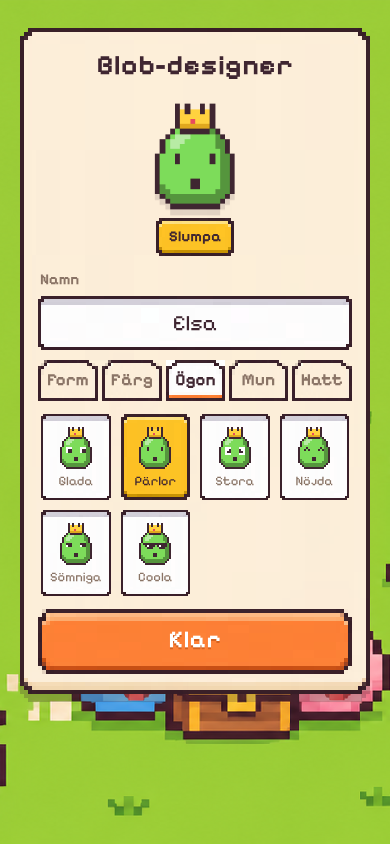
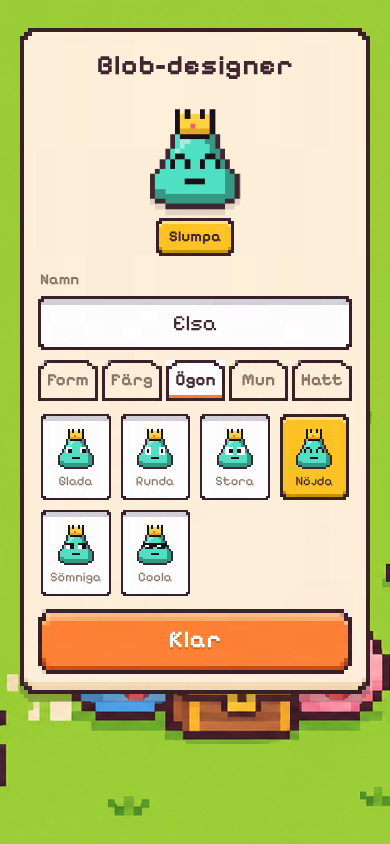
fix(blobz): high-contrast blob faces, slightly bigger blobz in game
Claude-Session: https://claude.ai/code/session_019PjhQycgBwz4yCtCSZuQS4

diff --git a/blobz/src/blob.ts b/blobz/src/blob.ts
@@ -5,10 +5,10 @@ export interface BlobLook { color: number; shape: number; eyes: number; mouth: n
 
 export const COLORS = [
   0x5ec8ff, 0xff6b8b, 0x7ddc5a, 0xffc93c, 0xb18cff, 0xff9248,
-  0x4fe0c3, 0xf2f2f2, 0xe63946, 0x3d6bff, 0x8a5a3c, 0x555a66,
+  0x4fe0c3, 0xf2f2f2, 0xe63946, 0x3d6bff, 0xc08850, 0x9aa0b4,
 ];
 export const SHAPES = ['Kupol', 'Boll', 'Lång', 'Platt', 'Päron', 'Kub'];
-export const EYES = ['Glada', 'Pärlor', 'Stora', 'Nöjda', 'Sömniga', 'Coola'];
+export const EYES = ['Glada', 'Runda', 'Stora', 'Nöjda', 'Sömniga', 'Coola'];
 export const MOUTHS = ['Öppen', 'Leende', 'Tunga', 'Tänder', 'Oj', 'Lugn'];
 export const HATS = ['Ingen', 'Krona', 'Keps', 'Blomma', 'Partyhatt', 'Mössa', 'Rosett', 'Halmhatt'];
 
@@ -19,7 +19,7 @@ export const BODY_CY = 15.5 / GRID_H;
 
 const OUT = '#3f2631';
 const PAL: Record<string, string> = {
-  K: OUT, W: '#ffffff', R: '#e84a5f', Y: '#ffd23f', y: '#e0a81e', C: '#e63946', c: '#a4161a',
+  K: '#1b1018', W: '#ffffff', R: '#ff5a6e', Y: '#ffd23f', y: '#e0a81e', C: '#e63946', c: '#a4161a',
   G: '#5aa83a', P: '#b18cff', p: '#7d5fd6', B: '#3d6bff', b: '#2a4bb8', S: '#e9c46a', s: '#c99a3e', N: '#ff8fab',
 };
 
@@ -27,20 +27,20 @@ const PAL: Record<string, string> = {
 // A pattern with `wide` spans both eyes (x=3..14).
 const EYE_PIX: { rows: string[]; wide?: boolean; mirror?: boolean }[] = [
   { rows: ['WWW', 'WKK', 'WKK'] }, // happy (like the art)
-  { rows: ['.K.', '.K.'] }, // beady
-  { rows: ['WWW', 'WWK', 'WKK', 'WWW'], mirror: true }, // big
-  { rows: ['.K.', 'K.K'] }, // content ^^
-  { rows: ['KKK', 'WKK'] }, // sleepy
-  { rows: ['KKKKKKKKKKKK', '.KWKKK.KWKKK', '..KKK...KKK.'], wide: true }, // cool shades
+  { rows: ['WWW', 'WKW', 'WKW', 'WWW'] }, // round, centred pupil
+  { rows: ['WWWW', 'WWKK', 'WWKK', 'WWWW'], mirror: true }, // big
+  { rows: ['.KK.', 'K..K', 'K..K'] }, // content ^^ (thick arcs)
+  { rows: ['KKKK', 'WWKK', 'WWKK'] }, // sleepy
+  { rows: ['KKKKKKKKKKKK', 'KWWKKKKWWKKK', '.KKKK..KKKK.'], wide: true }, // cool shades
 ];
-// Mouth patterns, centered (even widths), top row y=17.
+// Mouth patterns, centered (even widths), top row y=17. Near-black outline + red/white inside.
 const MOUTH_PIX: string[][] = [
   ['KKKK', 'KRRK', '.KK.'], // open
-  ['K..K', '.KK.'], // smile
-  ['KKKK', '.RR.', '.RR.'], // tongue
+  ['K....K', '.KKKK.'], // smile
+  ['KKKK', 'KRRK', '.RR.'], // tongue
   ['KKKK', 'KWWK', '.KK.'], // teeth
-  ['KK', 'KK'], // oh
-  ['KKKK'], // calm
+  ['.KK.', 'KRRK', '.KK.'], // oh
+  ['.KKKK.'], // calm
 ];
 // Hats: x offset, bottom row lands on the top of the head (y=9).
 const HAT_PIX: { x: number; rows: string[] }[] = [

diff --git a/blobz/src/game.ts b/blobz/src/game.ts
@@ -19,7 +19,7 @@ export interface Session {
 const T = 32; // rendered tile size (16px tiles at 2x)
 const ITEM_FRAME: Record<ItemKind, number> = { wood: 106, shroom: 29, coin: 93 };
 const TREE_FRAMES = [16, 28, 27];
-const BLOB_SCALE = 2.6; // 18x24 pixel blob grid
+const BLOB_SCALE = 2.9; // 18x24 pixel blob grid
 // decorations from Tiny Farm (sheet 'farm') and Tiny Town ('town')
 const DECOR: [string, number][] = [['farm', 39], ['farm', 83], ['farm', 78], ['town', 5], ['town', 2], ['farm', 39]];
 

diff --git a/blobz/PROGRESS.md b/blobz/PROGRESS.md
@@ -55,3 +55,8 @@
   orange/blue/yellow buttons with pressed states, tabs, inputs, option tiles, lobby rows, room code, dash
   button, thumbstick. Old outline recipe stays as fallback.
 - Verified: build, 390x844 + 844x390 screenshots, 3-player run with HUD/lobby/end screens.
+
+## 2026-11-14 - Readable faces
+- Eyes and mouths drawn in near-black #1b1018 (was plum, read as grey on darker bodies); every eye type
+  has white around the pupil, bigger mouths, "Pärlor" became "Runda". Brown/grey body colors lightened.
+  In-game blob scale 2.6 -> 2.9.
